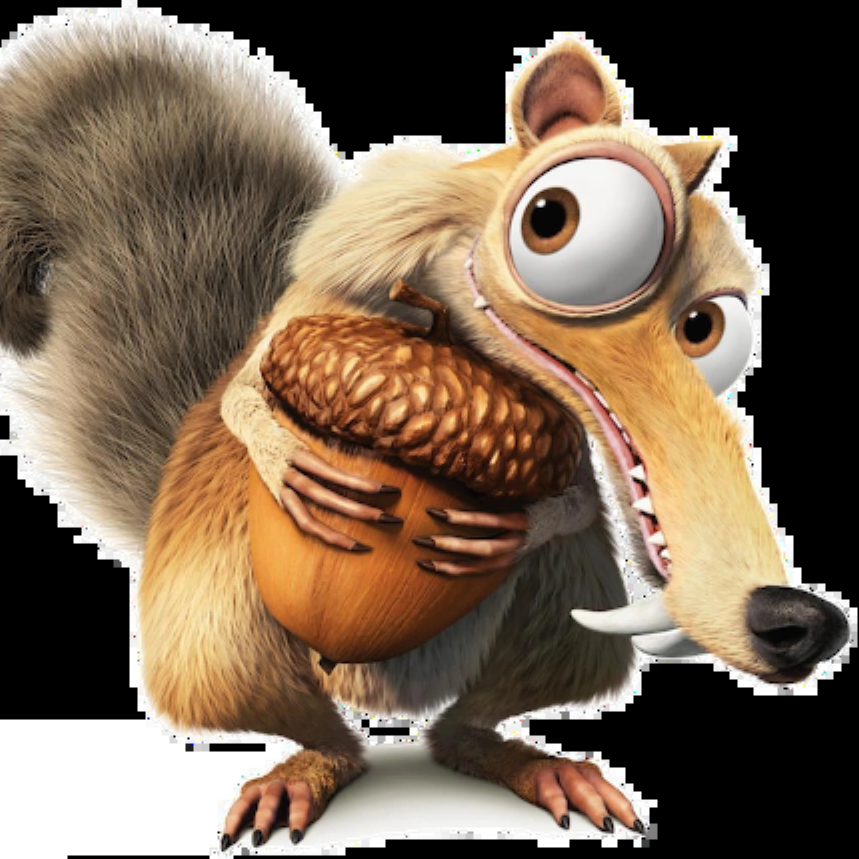
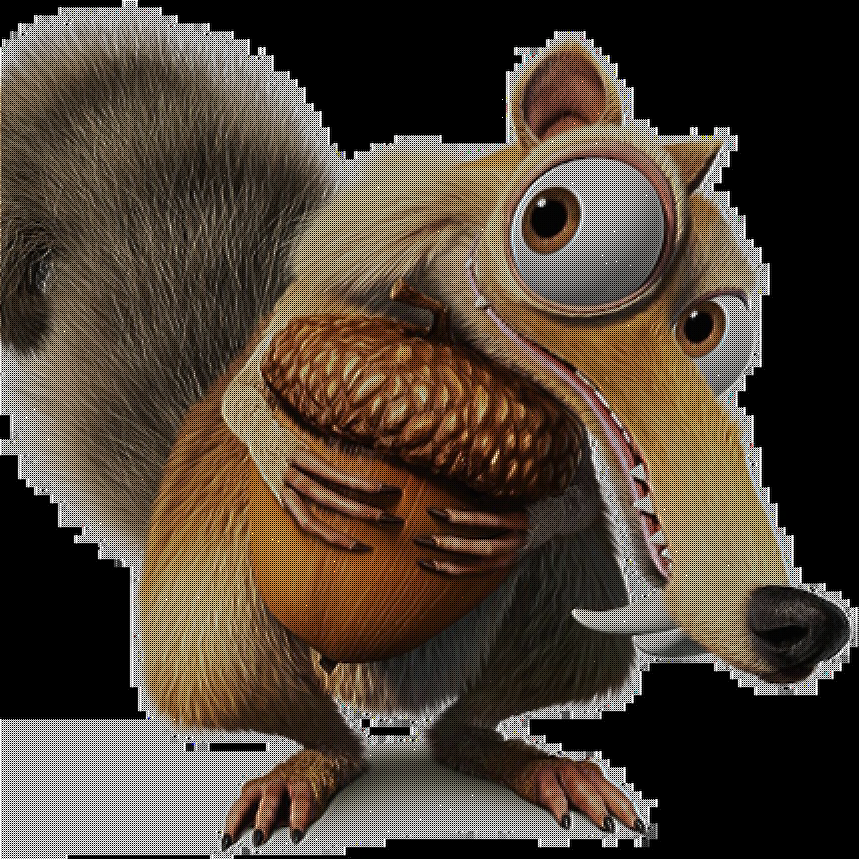
Avançando na bicubica, ainda com problemas

diff --git a/decompress.m b/decompress.m
@@ -52,12 +52,12 @@ function retval = decompress (compressedImg, method, k, h)
           B(3, :) = aux;
           #B
           C = A\B;
-          for p=0:k+1
+          for l=0:k+1
             for q=0:k+1
-              if D(I*(k + 1) + p + 1, J*(k + 1) + q + 1) == -1
-                auxX = I*(k + 1) + p + 1;
+              if D(I*(k + 1) + l + 1, J*(k + 1) + q + 1) == -1
+                auxX = I*(k + 1) + l + 1;
                 auxY = J*(k + 1) + q + 1;
-                x = (h/(k+1))*(k + 1 - p);
+                x = (h/(k+1))*(k + 1 - l);
                 y = (h/(k+1))*q;
                 #disp("D("), disp(auxX), disp(", "), disp(auxY), disp(") = "), disp(D(I*(k + 1) + p + 1, J*(k + 1) + q + 1));
                 D(auxX, auxY, 1) = C(1) + C(2)*x + C(3)*y + C(4)*x*y;
@@ -82,10 +82,10 @@ function retval = decompress (compressedImg, method, k, h)
             for L=0:1
               for i=0:1
                 for j=0:1
-                  if (T == 0 & L == 0)
+                  if (T == 0 && L == 0)
                     #f
                     B(T*2 + i + 1, L*2 + j + 1, :) = D(I*(k + 1) + i*(k + 1) + 1, J*(k + 1) + j*(k + 1) + 1, :);
-                  elseif (T == 0 & L == 1)
+                  elseif (T == 0 && L == 1)
                     #delf dely
                     if(J*(k + 1) + j*(k + 1) + 1 == p)
                       B(T*2 + i + 1, L*2 + j + 1, :) = (D(I*(k + 1) + i*(k + 1) + 1, J*(k + 1) + j*(k + 1) + 1, :) - D(I*(k + 1) + i*(k + 1) + 1, J*(k + 1) + (j - 1)*(k + 1) + 1, :))/h;
@@ -94,7 +94,7 @@ function retval = decompress (compressedImg, method, k, h)
                     else
                       B(T*2 + i + 1, L*2 + j + 1, :) = (D(I*(k + 1) + i*(k + 1) + 1, J*(k + 1) + (j + 1)*(k + 1) + 1, :) - D(I*(k + 1) + i*(k + 1) + 1, J*(k + 1) + (j - 1)*(k + 1) + 1, :))/(2*h);
                     endif
-                  elseif (T == 1 & L == 0)
+                  elseif (T == 1 && L == 0)
                     #delf delx
                     if(I*(k + 1) + i*(k + 1) + 1 == p)
                       B(T*2 + i + 1, L*2 + j + 1, :) = (D(I*(k + 1) + i*(k + 1) + 1, J*(k + 1) + j*(k + 1) + 1, :) - D(I*(k + 1) + (i - 1)*(k + 1) + 1, J*(k + 1) + j*(k + 1) + 1, :))/h;
@@ -102,6 +102,7 @@ function retval = decompress (compressedImg, method, k, h)
                       B(T*2 + i + 1, L*2 + j + 1, :) = (D(I*(k + 1) + (i + 1)*(k + 1) + 1, J*(k + 1) + j*(k + 1) + 1, :) - D(I*(k + 1) + i*(k + 1) + 1, J*(k + 1) + j*(k + 1) + 1, :))/h;
                     else
                       B(T*2 + i + 1, L*2 + j + 1, :) = (D(I*(k + 1) + (i + 1)*(k + 1) + 1, J*(k + 1) + j*(k + 1) + 1, :) - D(I*(k + 1) + (i - 1)*(k + 1) + 1, J*(k + 1) + j*(k + 1) + 1, :))/(2*h);
+                    endif
                   else
                     #del2f delx dely
                     #calcular del delx de del dely
@@ -142,26 +143,44 @@ function retval = decompress (compressedImg, method, k, h)
                         d1 = (D(I*(k + 1) + (i + 1)*(k + 1) + 1, J*(k + 1) + (j + 1)*(k + 1) + 1, :) - D(I*(k + 1) + (i + 1)*(k + 1) + 1, J*(k + 1) + (j - 1)*(k + 1) + 1, :))/(2*h);
                         d2 = (D(I*(k + 1) + (i - 1)*(k + 1) + 1, J*(k + 1) + (j + 1)*(k + 1) + 1, :) - D(I*(k + 1) + (i - 1)*(k + 1) + 1, J*(k + 1) + (j - 1)*(k + 1) + 1, :))/(2*h);
                       endif                       
-                    B(T*2 + i + 1, L*2 + j + 1, :) = (d1 - d2)/(2*h)
+                    B(T*2 + i + 1, L*2 + j + 1, :) = (d1 - d2)/(2*h);
                     endif
                   endif
                 endfor
               endfor
             endfor
           endfor
+          #disp("A matriz B é igual a: ");
           #B
-          C = A\B;
-          for p=0:k+1
+          for z=0:1
+            for g=0:1
+              aux2 = B(z*2 + 1, g*2 + 1, :);
+              B(z*2 + 1, g*2 + 1, :) = B(z*2 + 2, g*2 + 1, :);
+              B(z*2 + 2, g*2 + 1, :) = aux2;
+              aux2 = B(z*2 + 2, g*2 + 2, :);
+              B(z*2 + 2, g*2 + 2, :) = B(z*2 + 1, g*2 + 2, :);
+              B(z*2 + 1, g*2 + 2, :) = aux2;
+            endfor
+          endfor
+          #B
+          C1 = B(:,:,1)*inv(A)*inv(A');
+          C2 = B(:,:,2)*inv(A)*inv(A');
+          C3 = B(:,:,3)*inv(A)*inv(A');
+          
+          for l=0:k+1
             for q=0:k+1
-              if D(I*(k + 1) + p + 1, J*(k + 1) + q + 1) == -1
-                auxX = I*(k + 1) + p + 1;
+              if D(I*(k + 1) + l + 1, J*(k + 1) + q + 1) == -1
+                auxX = I*(k + 1) + l + 1;
                 auxY = J*(k + 1) + q + 1;
-                x = (h/(k+1))*(k + 1 - p);
+                x = (h/(k+1))*(k + 1 - l);
                 y = (h/(k+1))*q;
                 #disp("D("), disp(auxX), disp(", "), disp(auxY), disp(") = "), disp(D(I*(k + 1) + p + 1, J*(k + 1) + q + 1));
-                D(auxX, auxY, 1) = C(1) + C(2)*x + C(3)*y + C(4)*x*y;
-                D(auxX, auxY, 2) = C(5) + C(6)*x + C(7)*y + C(8)*x*y;
-                D(auxX, auxY, 3) = C(9) + C(10)*x + C(11)*y + C(12)*x*y;
+                #D(auxX, auxY, 1) = C(1) + C(2)*x + C(3)*y + C(4)*x*y;
+                #D(auxX, auxY, 2) = C(5) + C(6)*x + C(7)*y + C(8)*x*y;
+                #D(auxX, auxY, 3) = C(9) + C(10)*x + C(11)*y + C(12)*x*y;
+                D(auxX, auxY, 1) = [1 x x**2 x**3]*C1*[1; y; y**2; y**3];
+                D(auxX, auxY, 2) = [1 x x**2 x**3]*C2*[1; y; y**2; y**3];
+                D(auxX, auxY, 3) = [1 x x**2 x**3]*C3*[1; y; y**2; y**3];
               endif
             endfor
           endfor
@@ -170,7 +189,9 @@ function retval = decompress (compressedImg, method, k, h)
       
     endif
     imwrite(uint8(D), "decompressed.png"); 
+    disp("oi")
     retval = D;
+    
 
    
 
